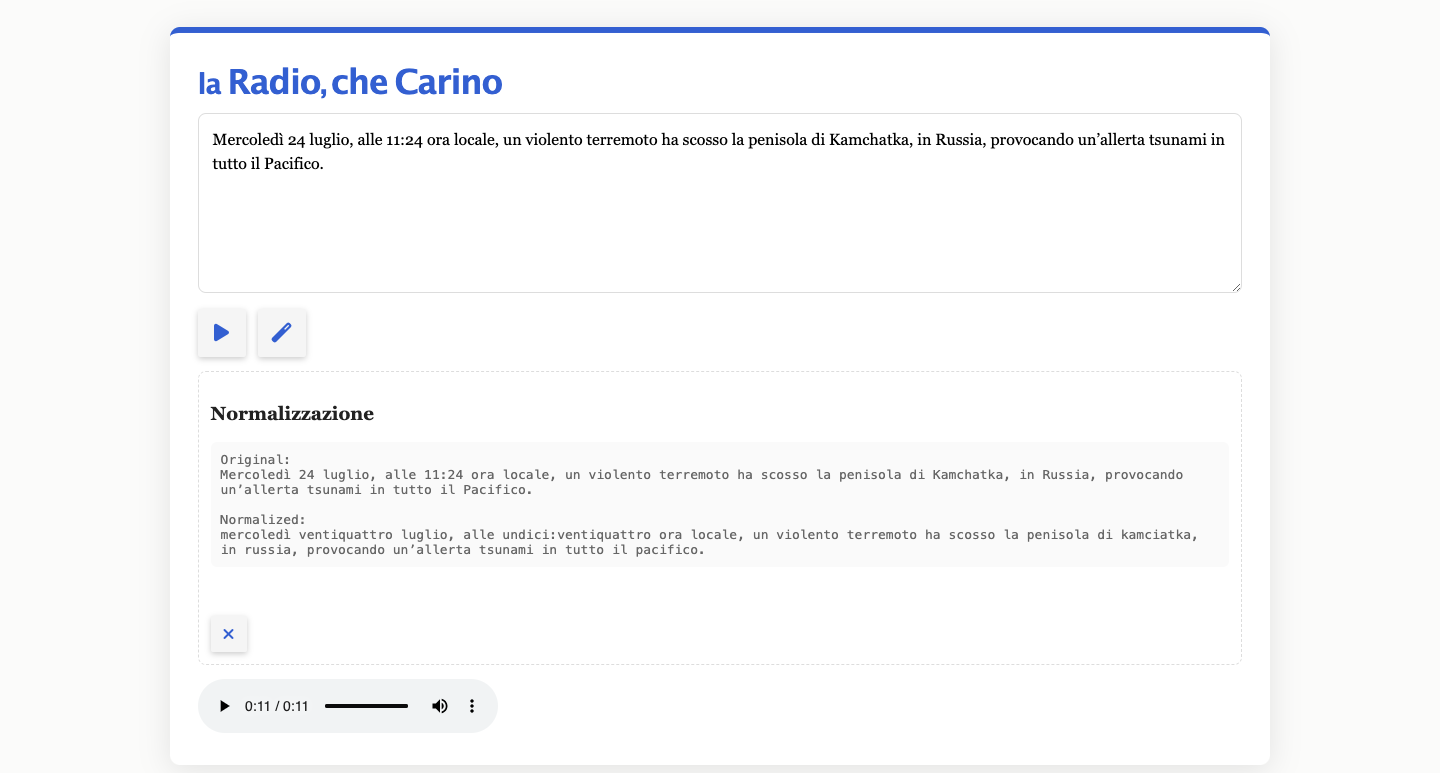
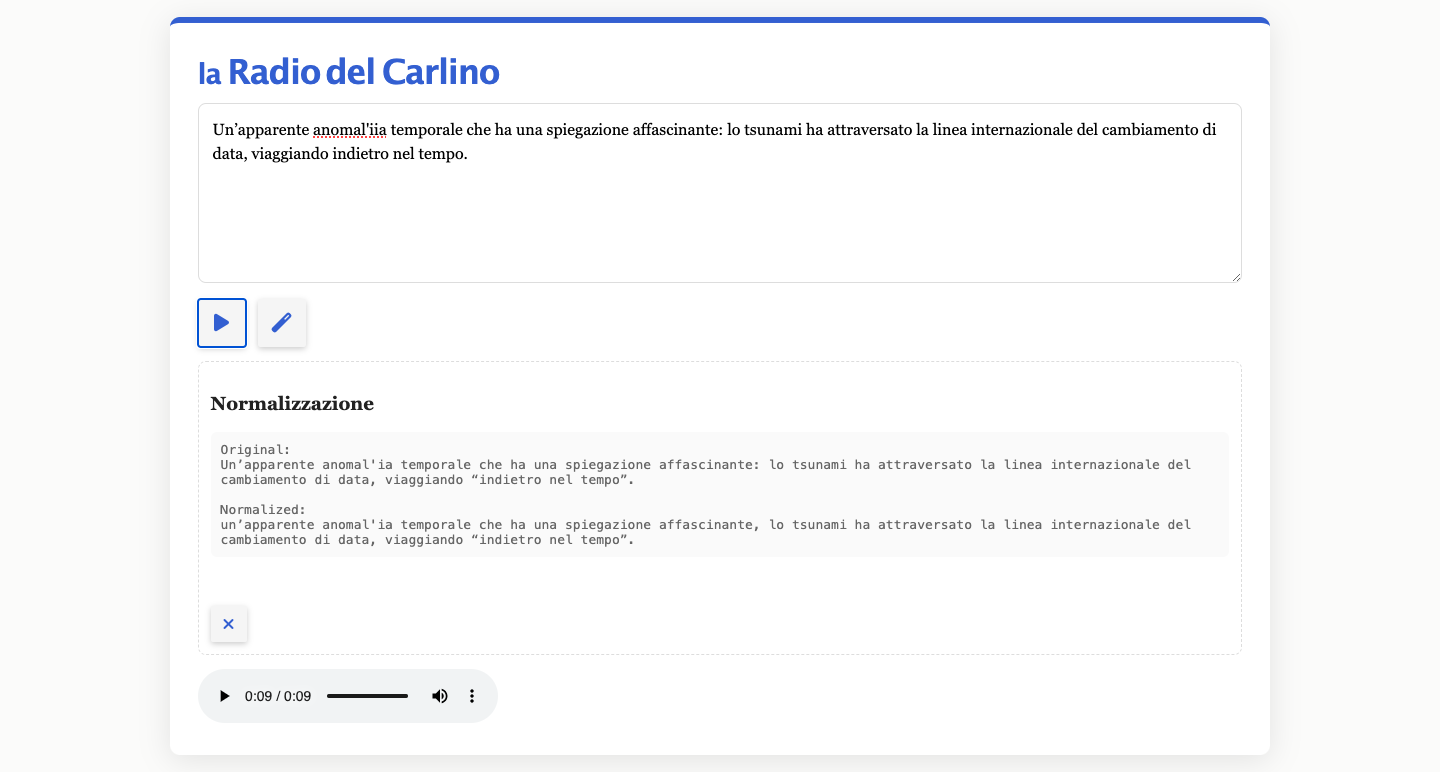
added model download step in readme, small changes

diff --git a/static/index.html b/static/index.html
@@ -4,7 +4,7 @@
 <head>
   <meta charset="utf-8" />
   <meta name="viewport" content="width=device-width,initial-scale=1" />
-  <title>La Radio, che Carino</title>
+  <title>La Radio del Carlino</title>
   <link rel="stylesheet" href="style.css" />
   <link
   rel="stylesheet"
@@ -13,7 +13,7 @@
 </head>
 <body>
   <main class="container">
-    <header class="masthead"><span class="smaller">la</span> Radio<span class="smaller">, </span>che Carino</header>
+    <header class="masthead"><span class="smaller">la</span> Radio<span class="smaller"> </span>del Carlino</header>
 
     <textarea id="text" placeholder="Incolla qui l'articolo o il passaggio..."></textarea>
     <div class="controls">

diff --git a/README.md b/README.md
@@ -1,4 +1,4 @@
-# La Radio, che Carino – Italian TTS Newsreader
+# La Radio del Carlino – Italian TTS Newsreader
 
 A minimal **fullstack newsreader app** that converts Italian text into speech using a **finetuned VITS model** on Italian news.  
 
@@ -33,6 +33,13 @@ newsreader-app/
 │    └── app.js
 ```
 
+## Model Download
+
+Before running the app, download the pretrained model (not included in this repository due to size):
+
+```bash
+gdown --id 1Uro2gsqQ8SrcWHwx4BK8FCrBu-Oc0rPt --output best_model.pth
+```
 
 ## Usage
 
